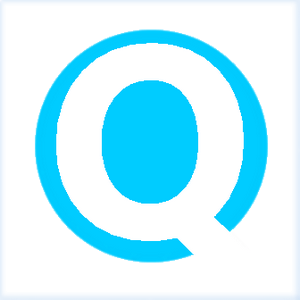
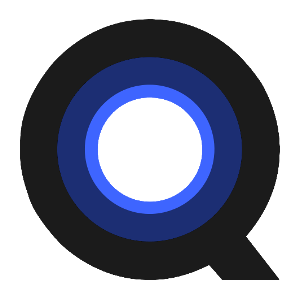
Updated README.
Updated README.
Updated application store icon.

diff --git a/README.md b/README.md
@@ -1,4 +1,4 @@
-# Cortana Quick #
+# Quick for Cortana #
 
 - Quick audible notes for Cortana.
 
@@ -11,6 +11,8 @@ Using Cortana's api, we retrieve a single string that will be characterized as a
 If the command entered via Cortana is characterized as a NoteCommand, the user input is stored at the isolated storage for the app and binded to the list of notes that the user have noted on the main page.
 
 If the command entered is a AskCommand, the user input is treated as such, splitting the words on the phrase, then, we eliminate every common word that might be, such as connectives. With these probably keywords we search for phrases that contain these on the database and retrieve all the notes that match this, after every keyword have been used, we have a list with every possible match, but, the note that appears more times on our list is very likely to be the answer to the user question. It's not a very mathematical approach, but it proved to be very accurate using statistics and our tests. 
+
+The app logo on version 2.0 and higher was designed by @gladia.
 
 
 This software is licensed under the MIT license
